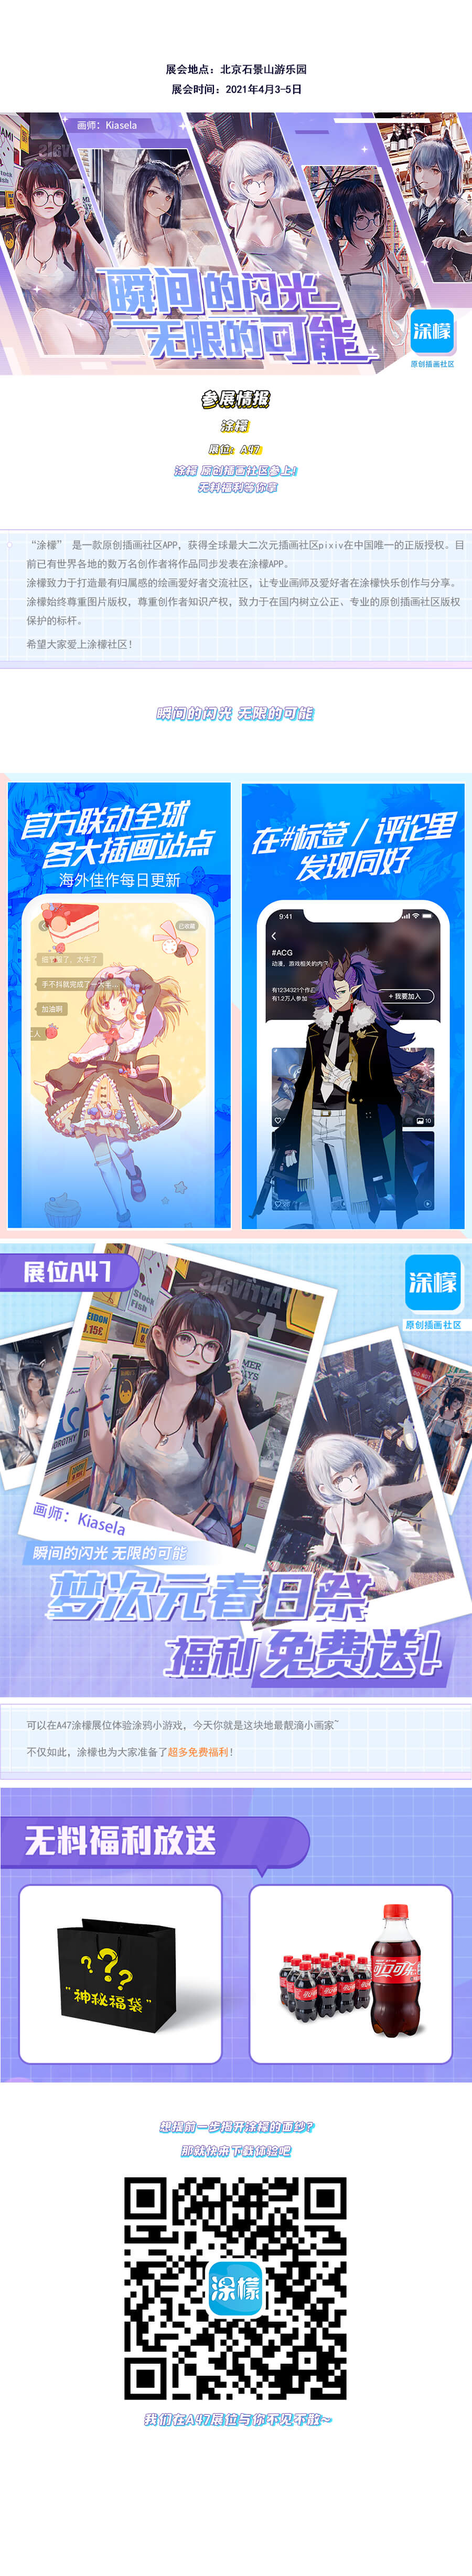
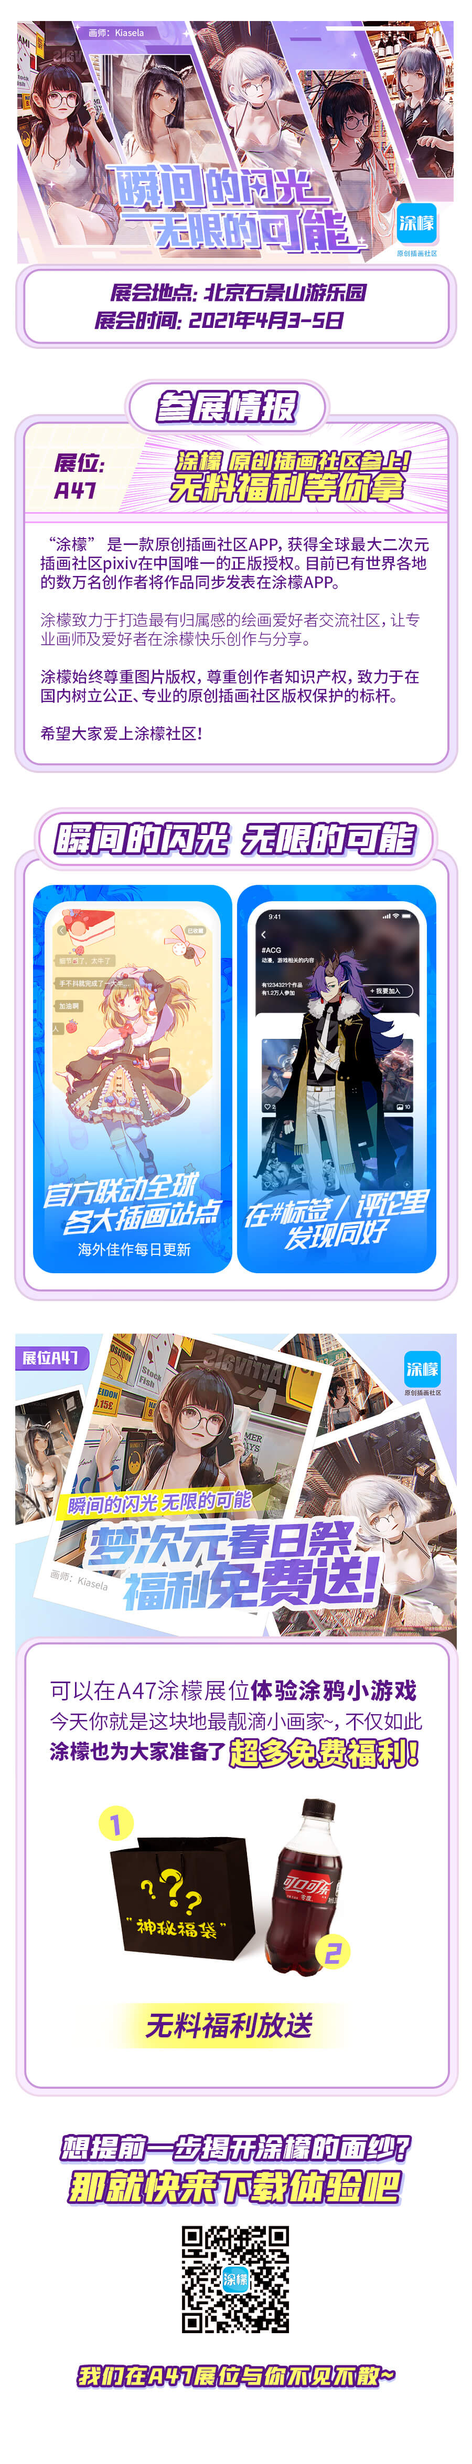
feat:更换画展图片

diff --git a/src/features/tumen_newactive/README.md b/src/features/tumen_newactive/README.md
@@ -5,3 +5,5 @@ peimingjun<peimj@bayread.com>
 ## [更新日志]
 - 2021.03.31 
  - 添加活动
+- 2021.04.01 16:40
+ - 更换画展活动图片
